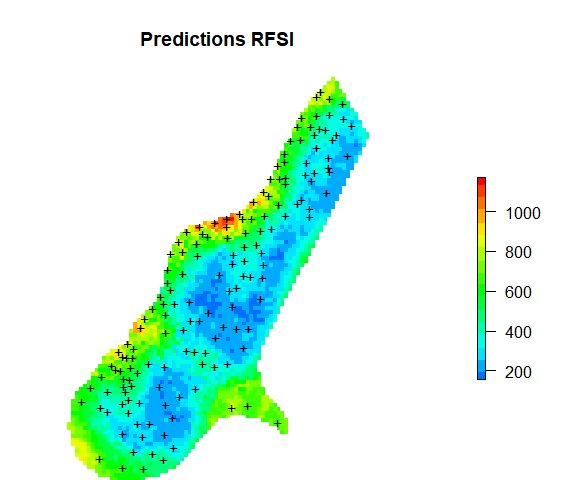
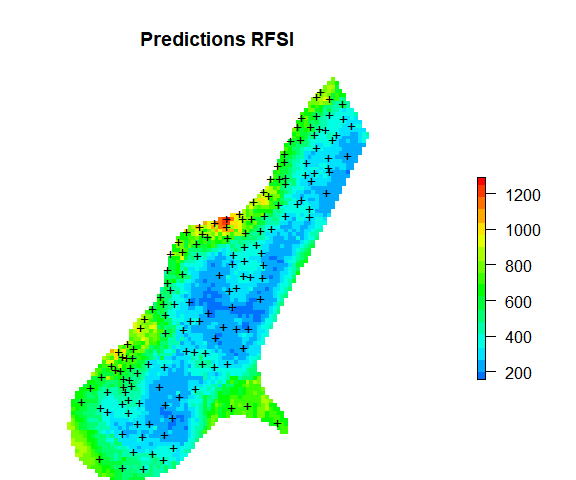
added Witjes et al.

diff --git a/R-training/README.md b/R-training/README.md
@@ -4,7 +4,7 @@ using spatiotemporal Ensemble ML
 Created and maintained by: Tom Hengl (<tom.hengl@OpenGeoHub.org>) |
 Leandro L. Parente (<leandro.parente@OpenGeoHub.org>) | Carmelo
 Bonannella (<carmelo.bonannella@OpenGeoHub.org>)
-Last compiled on: 08 September, 2021
+Last compiled on: 09 September, 2021
 
 
 
@@ -123,10 +123,10 @@ is known as **time-series analysis**. Some systematic guides on how to
 run time-series analysis in R can be found
 [here](http://r-statistics.co/Time-Series-Analysis-With-R.html).
 
-How a variable changes through time can often be drastically different
-from how it changes in space (spatial patterns). In general one can say
-that, for many environmental variables, variation of values through time
-can be separated into **components** such as:
+How a variable varies through time (time-series curves) can often be
+drastically different from how it changes in space (spatial patterns).
+In general one can say that, for many environmental variables, variation
+of values through time can be separated into **components** such as:
 
   - Long-term component (**trend**) determined by long-term geological
     and extraterrestrial processes,
@@ -881,8 +881,8 @@ rf_RFSI
     ## Target node size:                 5 
     ## Variable importance mode:         impurity 
     ## Splitrule:                        variance 
-    ## OOB prediction error (MSE):       72615.86 
-    ## R squared (OOB):                  0.4610795
+    ## OOB prediction error (MSE):       70491.11 
+    ## R squared (OOB):                  0.4768483
 
 To produce predictions we can run:
 
@@ -1193,8 +1193,8 @@ Train model using a subset of points:
     ## Mapping in parallel: mode = socket; level = mlr.resample; cpus = 12; elements = 10.
 
     ## # weights:  19
-    ## initial  value 1892102.547382 
-    ## final  value 512974.365752 
+    ## initial  value 1697880.074667 
+    ## final  value 510627.099374 
     ## converged
 
     ## Exporting objects to slaves for mode socket: .mlr.slave.options
@@ -1216,20 +1216,20 @@ summary(eml.TMP$learner.model$super.model$learner.model)
     ## 
     ## Residuals:
     ##      Min       1Q   Median       3Q      Max 
-    ## -17.7910  -1.8282   0.0673   1.8112  12.4129 
+    ## -18.1846  -1.7732   0.0634   1.7426  13.6272 
     ## 
     ## Coefficients:
     ##               Estimate Std. Error t value Pr(>|t|)    
-    ## (Intercept)   10.65213    6.08547   1.750   0.0801 .  
-    ## regr.ranger    0.67279    0.02825  23.813   <2e-16 ***
-    ## regr.nnet     -0.83706    0.47593  -1.759   0.0787 .  
-    ## regr.gamboost  0.33010    0.02846  11.597   <2e-16 ***
+    ## (Intercept)   21.14092    7.71985   2.739  0.00619 ** 
+    ## regr.ranger    0.67708    0.02853  23.729  < 2e-16 ***
+    ## regr.nnet     -1.65464    0.60328  -2.743  0.00611 ** 
+    ## regr.gamboost  0.32538    0.02871  11.332  < 2e-16 ***
     ## ---
     ## Signif. codes:  0 '***' 0.001 '**' 0.01 '*' 0.05 '.' 0.1 ' ' 1
     ## 
-    ## Residual standard error: 2.896 on 7590 degrees of freedom
-    ## Multiple R-squared:  0.8759, Adjusted R-squared:  0.8759 
-    ## F-statistic: 1.786e+04 on 3 and 7590 DF,  p-value: < 2.2e-16
+    ## Residual standard error: 2.853 on 7590 degrees of freedom
+    ## Multiple R-squared:  0.879,  Adjusted R-squared:  0.879 
+    ## F-statistic: 1.839e+04 on 3 and 7590 DF,  p-value: < 2.2e-16
 
 The variable importance show that the most important variable for
 predicting daily temperatures is in fact the night-time temperature:
@@ -1483,8 +1483,8 @@ m.vw
     ## Target node size:                 5 
     ## Variable importance mode:         none 
     ## Splitrule:                        variance 
-    ## OOB prediction error (MSE):       0.0009766977 
-    ## R squared (OOB):                  0.8489105
+    ## OOB prediction error (MSE):       0.0009663927 
+    ## R squared (OOB):                  0.8505046
 
 which shows that a significant model can be fitting using this data with
 R-square above 0.80. This model, however, as shown in Gasch et al.
@@ -1515,7 +1515,7 @@ tsk.st
     ## Supervised task: cookfarm.rm[subs, all.vars(fm)]
     ## Type: regr
     ## Target: VW
-    ## Observations: 5412
+    ## Observations: 5410
     ## Features:
     ##    numerics     factors     ordered functionals 
     ##           9           0           0           0 
@@ -1557,20 +1557,20 @@ summary(eml.VW$learner.model$super.model$learner.model)
     ## 
     ## Residuals:
     ##       Min        1Q    Median        3Q       Max 
-    ## -0.179087 -0.044913  0.003077  0.044072  0.182946 
+    ## -0.182776 -0.043441  0.005224  0.044188  0.192935 
     ## 
     ## Coefficients:
     ##                Estimate Std. Error t value Pr(>|t|)    
-    ## (Intercept)    0.022398   0.008316   2.693   0.0071 ** 
-    ## regr.ranger    1.023343   0.028273  36.195   <2e-16 ***
-    ## regr.gamboost -0.652231   0.067587  -9.650   <2e-16 ***
-    ## regr.cvglmnet  0.555139   0.050500  10.993   <2e-16 ***
+    ## (Intercept)    0.028742   0.009002   3.193  0.00142 ** 
+    ## regr.ranger    1.024545   0.028339  36.154  < 2e-16 ***
+    ## regr.gamboost -0.545819   0.072491  -7.530 5.93e-14 ***
+    ## regr.cvglmnet  0.424197   0.051218   8.282  < 2e-16 ***
     ## ---
     ## Signif. codes:  0 '***' 0.001 '**' 0.01 '*' 0.05 '.' 0.1 ' ' 1
     ## 
-    ## Residual standard error: 0.0622 on 5408 degrees of freedom
-    ## Multiple R-squared:  0.411,  Adjusted R-squared:  0.4107 
-    ## F-statistic:  1258 on 3 and 5408 DF,  p-value: < 2.2e-16
+    ## Residual standard error: 0.06188 on 5406 degrees of freedom
+    ## Multiple R-squared:  0.4091, Adjusted R-squared:  0.4088 
+    ## F-statistic:  1248 on 3 and 5406 DF,  p-value: < 2.2e-16
 
 This is now a 3D+T model of `VW`, which means that we can use it to
 predict values of `VW` at any new `x,y,d,t` location. To make prediction
@@ -1612,8 +1612,9 @@ the domain of **Species Distribution modeling**, except in this case we
 model distribution of target species also in spacetime. The training
 (point) data has been compiled for the purpose of the OpenDataScience.eu
 project, then cleaned and overlaid vs time-series of Landsat GLAD images
-and climatic variables. For more details refer to the [eumap
-repository](https://gitlab.com/geoharmonizer_inea/eumap).
+and climatic variables (Witjes et al.,
+[n.d.](#ref-witjes2021spatiotemporal)). For more details refer to the
+[eumap repository](https://gitlab.com/geoharmonizer_inea/eumap).
 
 We can load a snapshot of data by using:
 
@@ -1896,36 +1897,42 @@ spatiotemporal data and demonstrated how to use ML, specifically
 Ensemble ML, to train spatiotemporal models and produce time-series of
 predictions. We have also shown, using some synthetic and real-life
 datasets, how incorrectly setting up training and cross-validation can
-lead to over-fitting problems.
+lead to over-fitting problems. This was done to help users realize that
+Machine Learning, however trivial it might seem, is not a click-a-button
+process and solid knowledge and understanding of advanced statistics
+(regression, hypothesis testing, resampling, probability theory) is
+still required.
 
 For spatiotemporal models, we recommend combining and using covariates
 that can represent long-term or accumulated effects of climate, together
 with covariates that can represent daily to monthly oscillation of
 variables such as soil moisture, temperatures and similar. During the
-design of the modeling system, we highly recommend first **trying to
-understand ecology and processes behind variable of interest** the
-designing the modeling system to best reflect expert knowledge. The
-example in Gasch et al. ([2015](#ref-gasch2015spatio)) shows how
-in-depth understanding of the problem can help design modeling framework
-and prevent from over-fitting problems and similar.
+design of the modeling system, we highly recommend **trying to
+understand ecology and processes behind variable of interest** first,
+then designing the modeling system to best reflect expert knowledge. The
+example with RF over-fitting data in Gasch et al.
+([2015](#ref-gasch2015spatio)) shows how in-depth understanding of the
+problem can help design modeling framework and prevent from over-fitting
+problems and similar.
 
 Where time-series EO data exists, these can be also incorporated into
 the mapping algorithm as shown with three case studies. For spacetime
 overlays we recommend using Cloud-Optimized GeoTIFFs and the `terra`
 package (Hijmans, [2019](#ref-hijmans2019spatial)) which helps speed-up
-overlays.
+overlays. Other options for efficient overlay are the `stars` and
+`gdalcubes` package (Appel & Pebesma, [2019](#ref-appel2019demand)).
 
 Spatiotemporal datasets can be at the order of magnitude larger, hence
 it is important, when implementing analysis of spatiotemporal data, to
-consider computing optimization, which typically implies:
+consider **computing optimization**, which typically implies:
 
   - Running operations in parallel;
   - Separating fine-tuning and parameter optimization (best to run on
-    subset) from predictions,
+    subset and save computing time) from predictions,
   - Using tiling systems to run overlay, predictions and visualizations,
 
-Finally, the generic steps to fit spatiotemporal models described in
-this tutorial include:
+Finally, we recommend following these generic steps to fit
+spatiotemporal models:
 
 1.  Prepare training (points) data and data cube with all covariates
     referenced in spacetime.  
@@ -1939,28 +1946,38 @@ this tutorial include:
 5.  Generate predictions in spacetime — create time-series of
     predictions.  
 6.  (optional) Run change-detection / trend analysis and try to detect
-    main drivers of positive / negative trends.  
+    main drivers of positive / negative trends (Witjes et al.,
+    [n.d.](#ref-witjes2021spatiotemporal)).  
 7.  Deploy predictions as Cloud-Optimized GeoTIFF and produce the final
     report with mapping accuracy, variable importance.
 
-Ensemble ML framework we used clearly offers many benefits but it comes
-at a cost of at the order of magnitude higher computational load. Also
-interpretation of such models can be a cumbersome as there a multiple
-learners plus a meta-learner, so it often becomes difficult to
-track-back individual relationship between variables. To decrease such
-problems we recommend studying the [Interpretable Machine
+Ensemble ML framework we used here clearly offers many benefits but it
+comes at a cost of at the order of magnitude higher computational load.
+Also interpretation of such models can be a cumbersome as there a
+multiple learners plus a meta-learner, so it often becomes difficult to
+track-back individual relationship between variables. To help increase
+confidence in the produced models, we recommend studying the
+[Interpretable Machine
 Learning](https://christophm.github.io/interpretable-ml-book/) methods
-(Molnar, [2020](#ref-molnar2020interpretable)) and running additional
-diagnostics, and intensively plotting of the data in space and spacetime
-.
+(Molnar, [2020](#ref-molnar2020interpretable)), running additional model
+diagnostics, and intensively plotting data in space and spacetime and
+feature space.
 
-Note that the `mlr` package is discontinued, so some of the example
+Note that the `mlr` package is discontinued, so some of the examples
 above might become unstable with time. You are advised instead to use
 the new [mlr3 package](https://mlr3.mlr-org.com/).
 
 ## References
 
 <div id="refs" class="references">
+
+<div id="ref-appel2019demand">
+
+Appel, M., & Pebesma, E. (2019). On-demand processing of data cubes from
+satellite image collections with the gdalcubes library. *Data*, *4*(3),
+92. doi:[10.3390/data4030092](https://doi.org/10.3390/data4030092)
+
+</div>
 
 <div id="ref-bischl2016mlr">
 
@@ -2122,6 +2139,16 @@ Publishers.
 
 Wikle, C. K., Zammit-Mangion, A., & Cressie, N. (2019). *Spatio-Temporal
 Statistics with R*. CRC Press.
+
+</div>
+
+<div id="ref-witjes2021spatiotemporal">
+
+Witjes, M., Parente, L., Diemen, C. J. van, Hengl, T., Landa, M.,
+Brodsky, L., … others. (n.d.). A spatiotemporal ensemble machine
+learning framework for generating land use/land cover time-series maps
+for europe (2000–2019) based on lucas, corine and glad landsat. *PeerJ*,
+(in review).
 
 </div>
 
